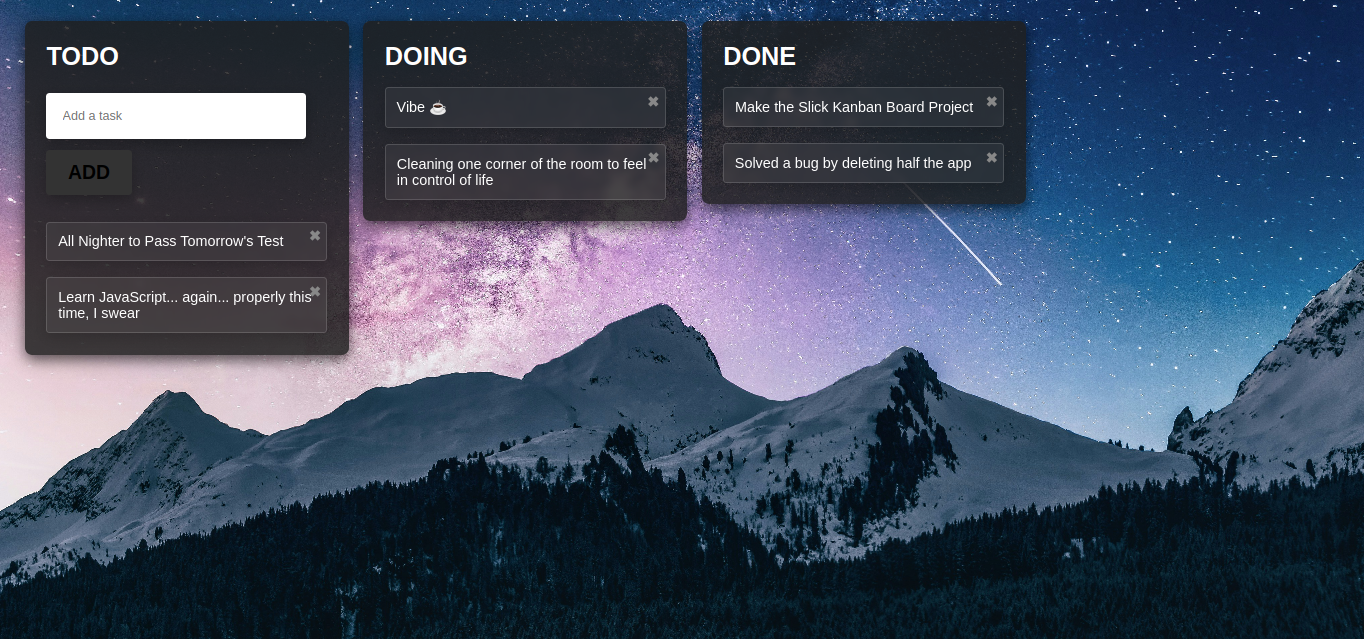
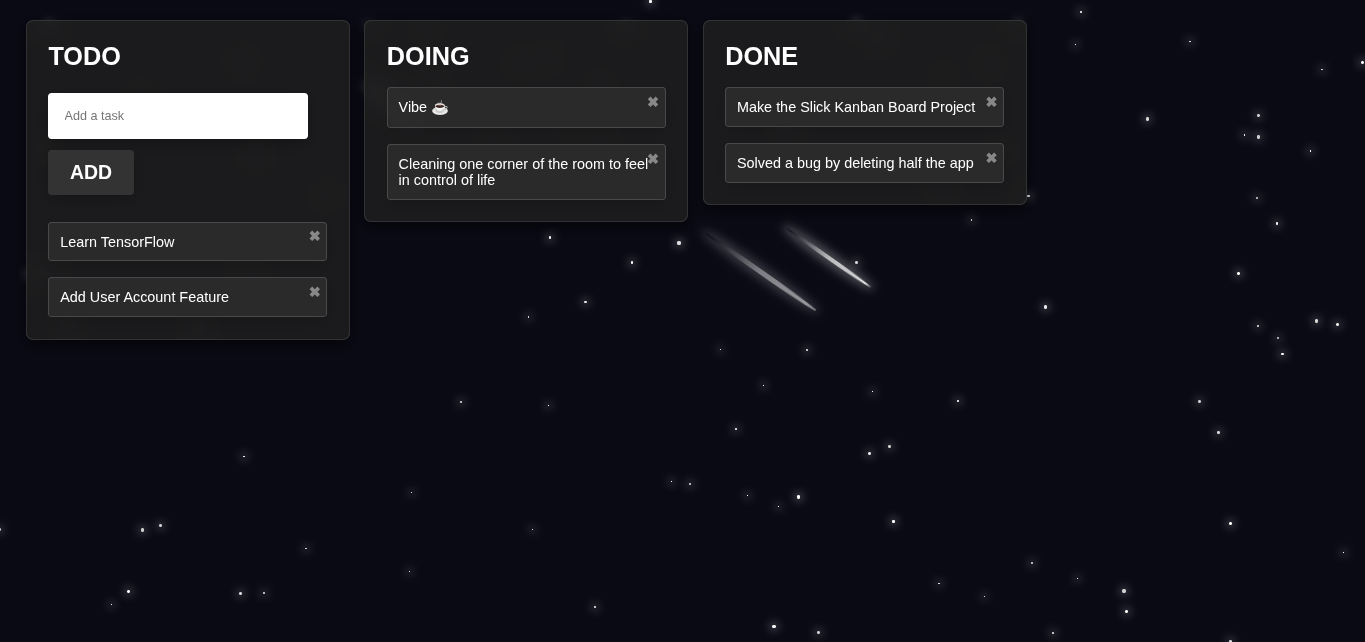
Updated Output image

diff --git a/passing-context-to-llm.md b/passing-context-to-llm.md
@@ -1,0 +1,43 @@
+## How I passed Context to LLM:
+
+1. Getting folder structure tree:
+
+    Example: ```tree -L 2 --dirsfirst -I "__pycache__|.git|.venv|node_modules"```
+
+2. How to cat (see all contents of all files in a directory):
+
+```bash
+for f in *; do
+  [[ -f $f ]] && { echo "=== $f ==="; cat "$f"; echo "---"; }
+done
+```
+
+Why safer / better:
+
+```[[ -f $f ]]```
+→ Tests whether $f is a regular file (not a directory, symlink, device, etc.).
+So the commands only run for real files.
+
+```{ ... }```
+→ Groups those commands together so they only run if the condition succeeds.
+
+3. You can add conditions to skip certain filenames or patterns:
+
+```bash
+for f in *; do
+  [[ -f $f ]] || continue     # skip if not a regular file
+
+  # Skip specific files
+  [[ $f == "ignoreme.txt" || $f == "secret.key" ]] && continue
+
+  # Or skip by pattern
+  [[ $f == *.log || $f == temp_* ]] && continue
+
+  echo "=== $f ==="
+  cat "$f"
+  echo "---"
+done
+```
+
+
+
